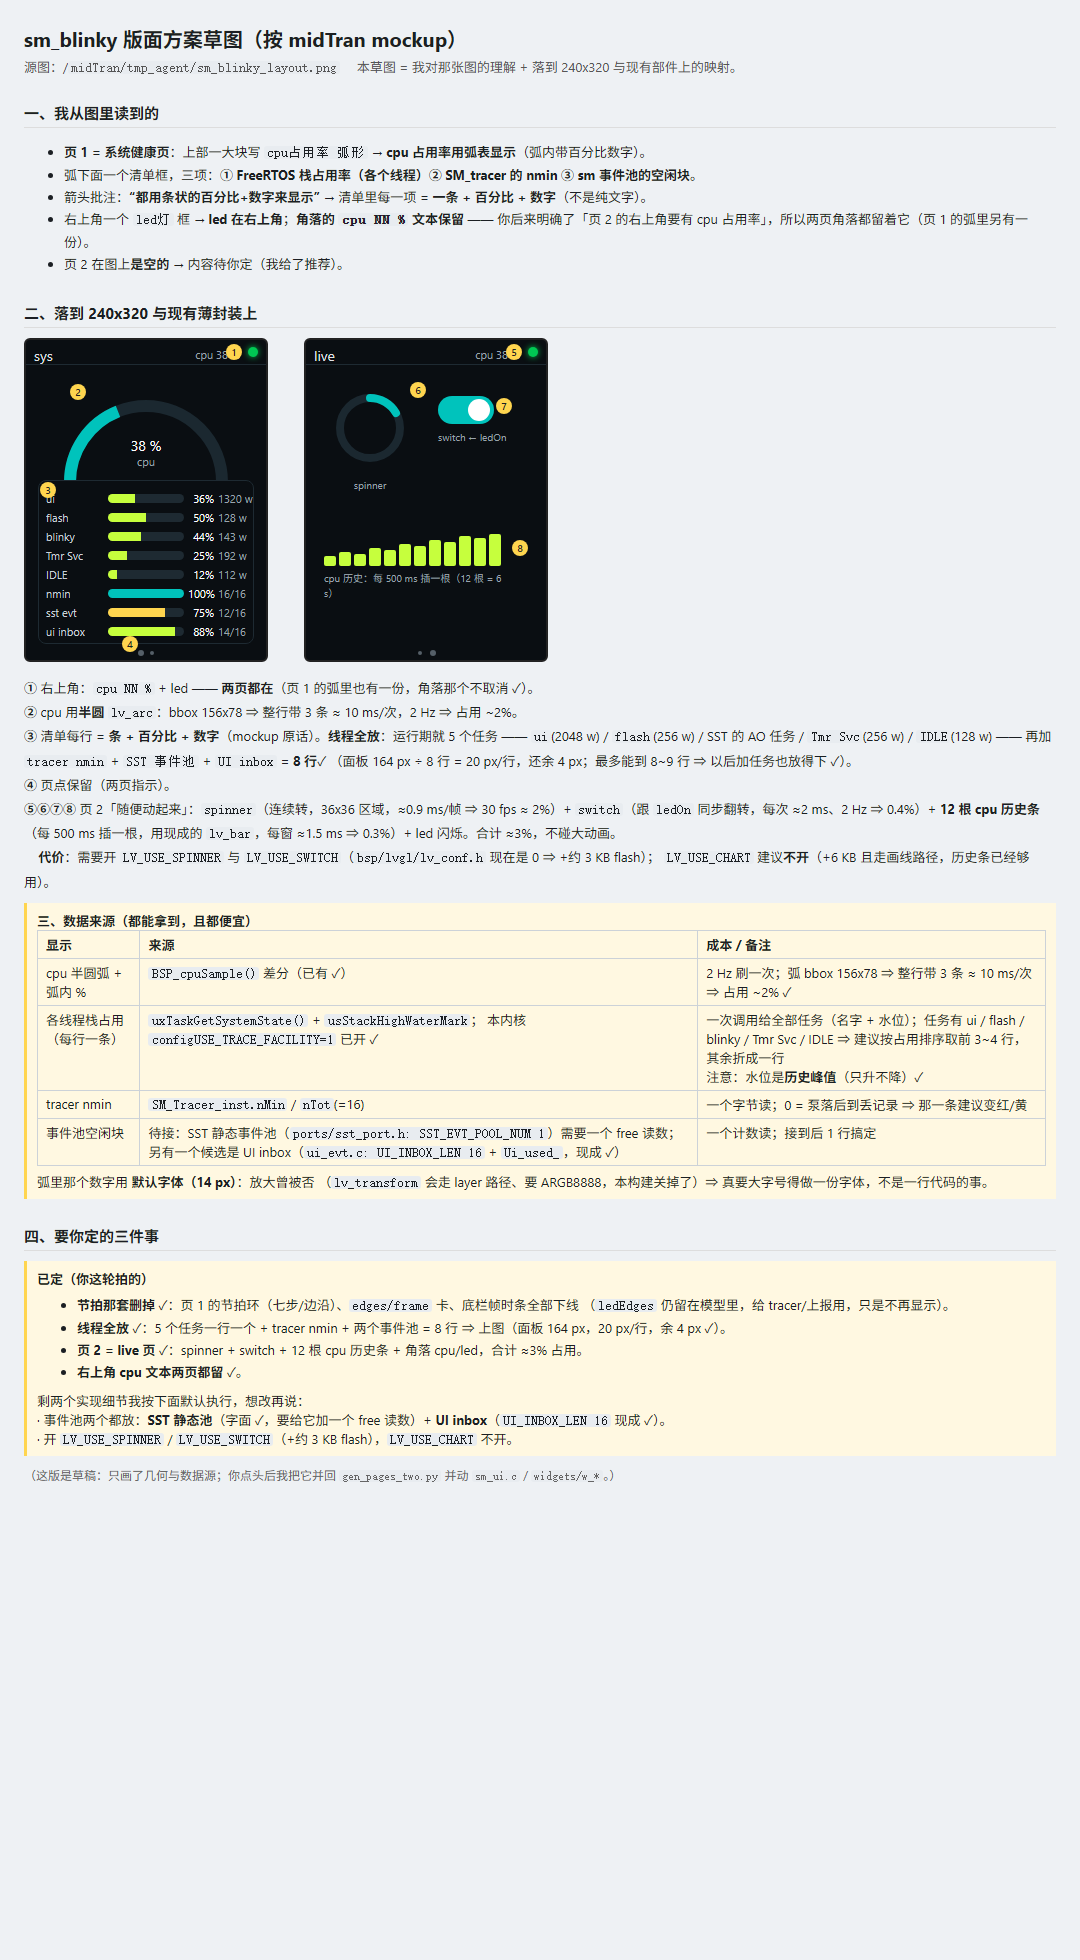
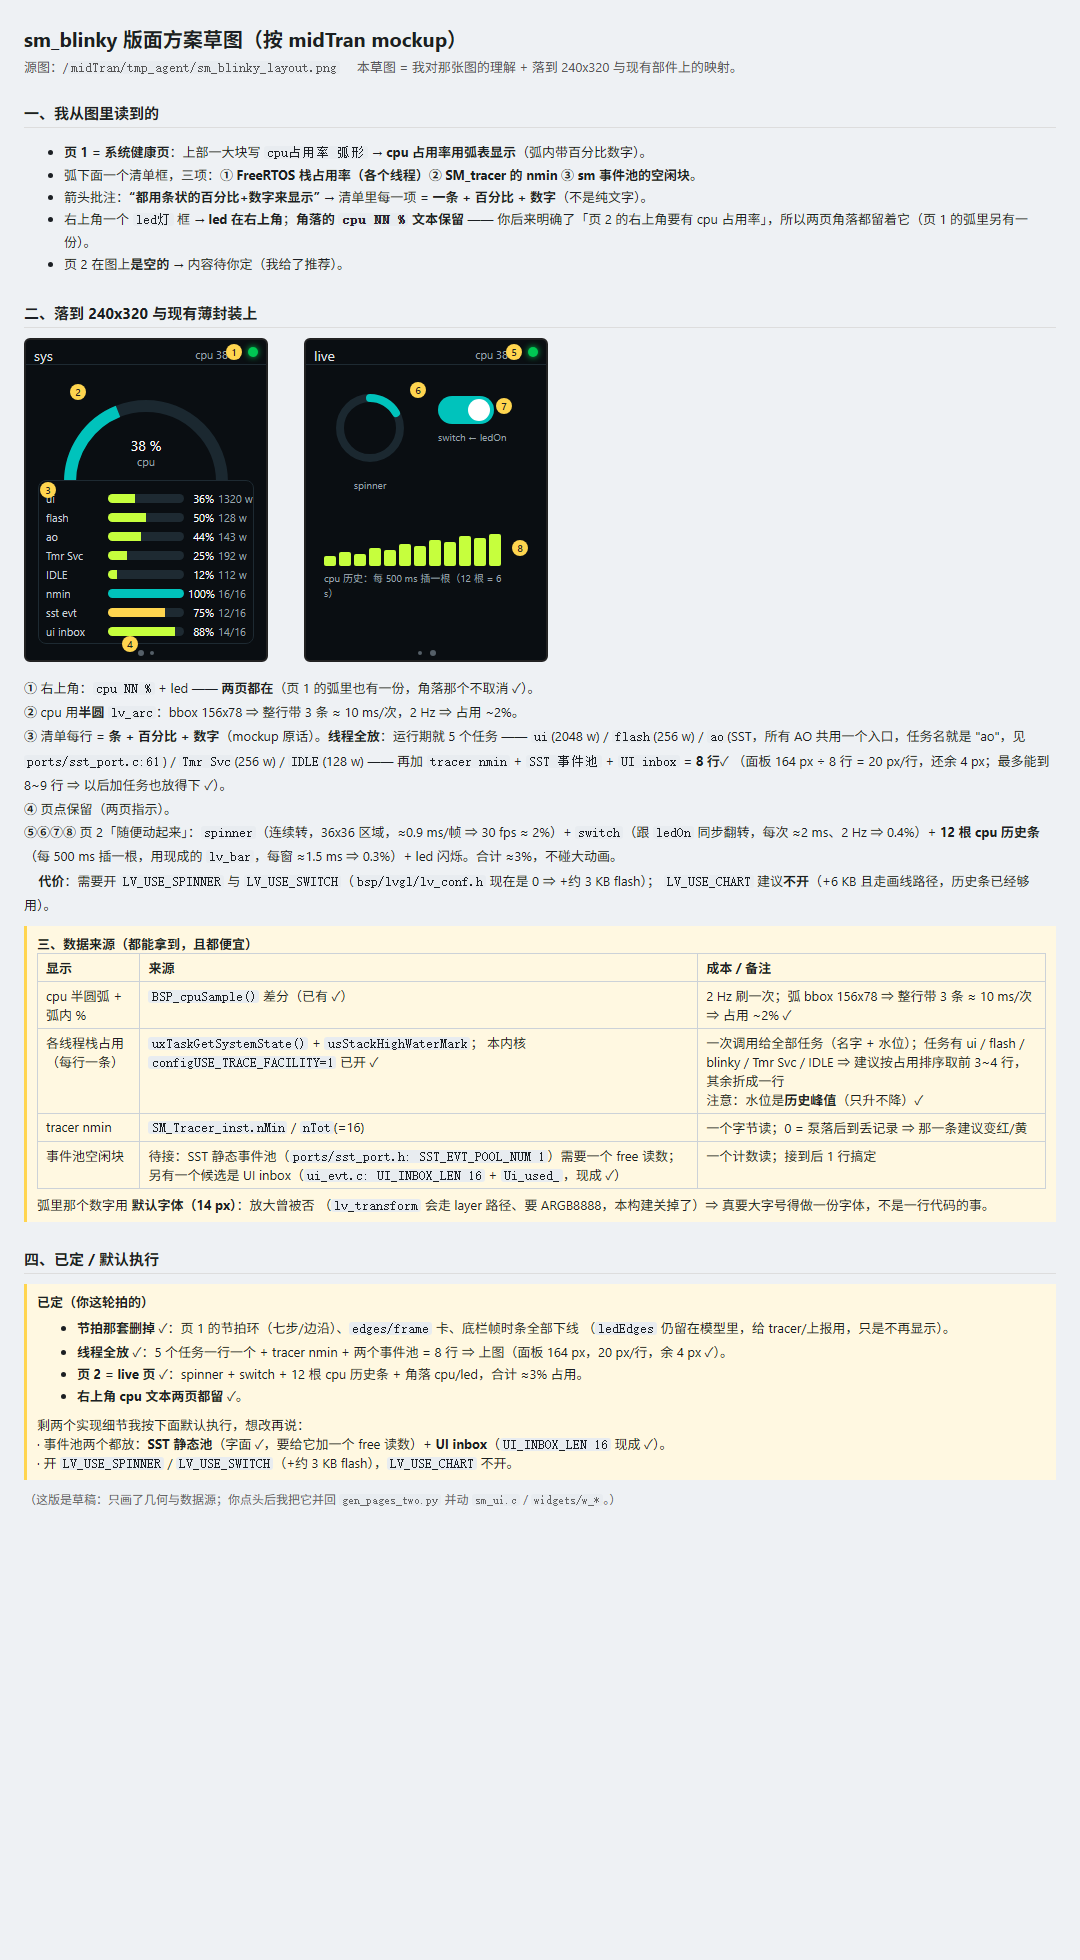
Name the AO task by the name it really has, and close the open questions in the sketch

Changed region(s): [[0.0, 0.3735, 0.9778, 0.7781], [0.55, 0.7158, 0.6111, 0.7469]]

diff --git a/docs/diagrams/sketches/layout-next.html b/docs/diagrams/sketches/layout-next.html
@@ -48,12 +48,12 @@ code{background:#e8ecf0;padding:0 3px;border-radius:3px}
 </ul>
 
 <h2>二、落到 240x320 与现有薄封装上</h2>
-<div class="panels"><div class="panel"><div class="cap">page 1 &middot; 系统健康（新）</div><div style="position:absolute;left:0;top:0;width:240px;height:24px;border-bottom:1px solid #1E2A32"></div><div style="position:absolute;left:8px;top:6px;color:#E0E4E8;font-size:14px">sys</div><div class="led" style="left:222px;top:7px"></div><div style="position:absolute;left:0;top:7px;width:214px;text-align:right;color:#9AA3AC;font-size:11px">cpu 38 %</div><div class="tagon" style="left:200px;top:4px">1</div><svg width="240" height="130" viewBox="0 0 240 130" style="position:absolute;left:0;top:26px"><path d="M 44.0 116.0 A 76 76 0 0 1 196.0 116.0" stroke="#1B2830" stroke-width="12" fill="none"/><path d="M 44.0 116.0 A 76 76 0 0 1 92.0 45.3" stroke="#00C3BC" stroke-width="12" fill="none"/></svg><div style="position:absolute;left:0;top:96px;width:240px;text-align:center;color:#fff;font-size:14px">38 %</div><div style="position:absolute;left:0;top:114px;width:240px;text-align:center;color:#9AA3AC;font-size:11px">cpu</div><div class="tagon" style="left:44px;top:44px">2</div><div class="solid" style="left:12px;top:140px;width:216px;height:164px"></div><div class="row" style="left:20px;top:150px"><span style="width:58px">ui</span><span class="track" style="width:76px"><span class="fill" style="width:36%;background:#C6FF3D"></span></span><span class="pct">36%</span><span class="raw">1320 w</span></div><div class="row" style="left:20px;top:169px"><span style="width:58px">flash</span><span class="track" style="width:76px"><span class="fill" style="width:50%;background:#C6FF3D"></span></span><span class="pct">50%</span><span class="raw">128 w</span></div><div class="row" style="left:20px;top:188px"><span style="width:58px">blinky</span><span class="track" style="width:76px"><span class="fill" style="width:44%;background:#C6FF3D"></span></span><span class="pct">44%</span><span class="raw">143 w</span></div><div class="row" style="left:20px;top:207px"><span style="width:58px">Tmr Svc</span><span class="track" style="width:76px"><span class="fill" style="width:25%;background:#C6FF3D"></span></span><span class="pct">25%</span><span class="raw">192 w</span></div><div class="row" style="left:20px;top:226px"><span style="width:58px">IDLE</span><span class="track" style="width:76px"><span class="fill" style="width:12%;background:#C6FF3D"></span></span><span class="pct">12%</span><span class="raw">112 w</span></div><div class="row" style="left:20px;top:245px"><span style="width:58px">nmin</span><span class="track" style="width:76px"><span class="fill" style="width:100%;background:#00C3BC"></span></span><span class="pct">100%</span><span class="raw">16/16</span></div><div class="row" style="left:20px;top:264px"><span style="width:58px">sst evt</span><span class="track" style="width:76px"><span class="fill" style="width:75%;background:#FFD54F"></span></span><span class="pct">75%</span><span class="raw">12/16</span></div><div class="row" style="left:20px;top:283px"><span style="width:58px">ui inbox</span><span class="track" style="width:76px"><span class="fill" style="width:88%;background:#C6FF3D"></span></span><span class="pct">88%</span><span class="raw">14/16</span></div><div class="tagon" style="left:14px;top:142px">3</div><div class="dot" style="left:112px;top:310px;width:6px;height:6px"></div><div class="dot" style="left:124px;top:311px;width:4px;height:4px"></div><div class="tagon" style="left:96px;top:296px">4</div></div><div class="panel"><div class="cap">page 2 &middot; live（原图为空，内容我提案）</div><div style="position:absolute;left:0;top:0;width:240px;height:24px;border-bottom:1px solid #1E2A32"></div><div style="position:absolute;left:8px;top:6px;color:#E0E4E8;font-size:14px">live</div><div class="led" style="left:222px;top:7px"></div><div style="position:absolute;left:0;top:7px;width:214px;text-align:right;color:#9AA3AC;font-size:11px">cpu 38 %</div><div class="tagon" style="left:200px;top:4px">5</div><svg width="96" height="96" viewBox="0 0 96 96" style="position:absolute;left:16px;top:40px"><circle cx="48" cy="48" r="30" stroke="#1B2830" stroke-width="8" fill="none"/><path d="M 48 18 A 30 30 0 0 1 74 33" stroke="#00C3BC" stroke-width="8" fill="none" stroke-linecap="round"/></svg><div style="position:absolute;left:16px;top:138px;width:96px;text-align:center;color:#9AA3AC;font-size:10px">spinner</div><div class="tagon" style="left:104px;top:42px">6</div><div style="position:absolute;left:132px;top:56px;width:56px;height:28px;border-radius:14px;background:#00C3BC"></div><div style="position:absolute;left:162px;top:59px;width:22px;height:22px;border-radius:50%;background:#fff"></div><div style="position:absolute;left:132px;top:90px;width:88px;color:#9AA3AC;font-size:10px">switch &larr; ledOn</div><div class="tagon" style="left:190px;top:58px">7</div><div style="position:absolute;left:18px;top:216px;width:12px;height:10px;background:#C6FF3D;border-radius:2px"></div><div style="position:absolute;left:33px;top:212px;width:12px;height:14px;background:#C6FF3D;border-radius:2px"></div><div style="position:absolute;left:48px;top:214px;width:12px;height:12px;background:#C6FF3D;border-radius:2px"></div><div style="position:absolute;left:63px;top:208px;width:12px;height:18px;background:#C6FF3D;border-radius:2px"></div><div style="position:absolute;left:78px;top:210px;width:12px;height:16px;background:#C6FF3D;border-radius:2px"></div><div style="position:absolute;left:93px;top:204px;width:12px;height:22px;background:#C6FF3D;border-radius:2px"></div><div style="position:absolute;left:108px;top:206px;width:12px;height:20px;background:#C6FF3D;border-radius:2px"></div><div style="position:absolute;left:123px;top:200px;width:12px;height:26px;background:#C6FF3D;border-radius:2px"></div><div style="position:absolute;left:138px;top:202px;width:12px;height:24px;background:#C6FF3D;border-radius:2px"></div><div style="position:absolute;left:153px;top:196px;width:12px;height:30px;background:#C6FF3D;border-radius:2px"></div><div style="position:absolute;left:168px;top:198px;width:12px;height:28px;background:#C6FF3D;border-radius:2px"></div><div style="position:absolute;left:183px;top:194px;width:12px;height:32px;background:#C6FF3D;border-radius:2px"></div><div style="position:absolute;left:18px;top:230px;width:186px;color:#9AA3AC;font-size:10px">cpu 历史：每 500 ms 插一根（12 根 = 6 s）</div><div class="tagon" style="left:206px;top:200px">8</div><div class="dot" style="left:112px;top:311px;width:4px;height:4px"></div><div class="dot" style="left:124px;top:310px;width:6px;height:6px"></div></div></div>
+<div class="panels"><div class="panel"><div class="cap">page 1 &middot; 系统健康（新）</div><div style="position:absolute;left:0;top:0;width:240px;height:24px;border-bottom:1px solid #1E2A32"></div><div style="position:absolute;left:8px;top:6px;color:#E0E4E8;font-size:14px">sys</div><div class="led" style="left:222px;top:7px"></div><div style="position:absolute;left:0;top:7px;width:214px;text-align:right;color:#9AA3AC;font-size:11px">cpu 38 %</div><div class="tagon" style="left:200px;top:4px">1</div><svg width="240" height="130" viewBox="0 0 240 130" style="position:absolute;left:0;top:26px"><path d="M 44.0 116.0 A 76 76 0 0 1 196.0 116.0" stroke="#1B2830" stroke-width="12" fill="none"/><path d="M 44.0 116.0 A 76 76 0 0 1 92.0 45.3" stroke="#00C3BC" stroke-width="12" fill="none"/></svg><div style="position:absolute;left:0;top:96px;width:240px;text-align:center;color:#fff;font-size:14px">38 %</div><div style="position:absolute;left:0;top:114px;width:240px;text-align:center;color:#9AA3AC;font-size:11px">cpu</div><div class="tagon" style="left:44px;top:44px">2</div><div class="solid" style="left:12px;top:140px;width:216px;height:164px"></div><div class="row" style="left:20px;top:150px"><span style="width:58px">ui</span><span class="track" style="width:76px"><span class="fill" style="width:36%;background:#C6FF3D"></span></span><span class="pct">36%</span><span class="raw">1320 w</span></div><div class="row" style="left:20px;top:169px"><span style="width:58px">flash</span><span class="track" style="width:76px"><span class="fill" style="width:50%;background:#C6FF3D"></span></span><span class="pct">50%</span><span class="raw">128 w</span></div><div class="row" style="left:20px;top:188px"><span style="width:58px">ao</span><span class="track" style="width:76px"><span class="fill" style="width:44%;background:#C6FF3D"></span></span><span class="pct">44%</span><span class="raw">143 w</span></div><div class="row" style="left:20px;top:207px"><span style="width:58px">Tmr Svc</span><span class="track" style="width:76px"><span class="fill" style="width:25%;background:#C6FF3D"></span></span><span class="pct">25%</span><span class="raw">192 w</span></div><div class="row" style="left:20px;top:226px"><span style="width:58px">IDLE</span><span class="track" style="width:76px"><span class="fill" style="width:12%;background:#C6FF3D"></span></span><span class="pct">12%</span><span class="raw">112 w</span></div><div class="row" style="left:20px;top:245px"><span style="width:58px">nmin</span><span class="track" style="width:76px"><span class="fill" style="width:100%;background:#00C3BC"></span></span><span class="pct">100%</span><span class="raw">16/16</span></div><div class="row" style="left:20px;top:264px"><span style="width:58px">sst evt</span><span class="track" style="width:76px"><span class="fill" style="width:75%;background:#FFD54F"></span></span><span class="pct">75%</span><span class="raw">12/16</span></div><div class="row" style="left:20px;top:283px"><span style="width:58px">ui inbox</span><span class="track" style="width:76px"><span class="fill" style="width:88%;background:#C6FF3D"></span></span><span class="pct">88%</span><span class="raw">14/16</span></div><div class="tagon" style="left:14px;top:142px">3</div><div class="dot" style="left:112px;top:310px;width:6px;height:6px"></div><div class="dot" style="left:124px;top:311px;width:4px;height:4px"></div><div class="tagon" style="left:96px;top:296px">4</div></div><div class="panel"><div class="cap">page 2 &middot; live（原图为空，内容我提案）</div><div style="position:absolute;left:0;top:0;width:240px;height:24px;border-bottom:1px solid #1E2A32"></div><div style="position:absolute;left:8px;top:6px;color:#E0E4E8;font-size:14px">live</div><div class="led" style="left:222px;top:7px"></div><div style="position:absolute;left:0;top:7px;width:214px;text-align:right;color:#9AA3AC;font-size:11px">cpu 38 %</div><div class="tagon" style="left:200px;top:4px">5</div><svg width="96" height="96" viewBox="0 0 96 96" style="position:absolute;left:16px;top:40px"><circle cx="48" cy="48" r="30" stroke="#1B2830" stroke-width="8" fill="none"/><path d="M 48 18 A 30 30 0 0 1 74 33" stroke="#00C3BC" stroke-width="8" fill="none" stroke-linecap="round"/></svg><div style="position:absolute;left:16px;top:138px;width:96px;text-align:center;color:#9AA3AC;font-size:10px">spinner</div><div class="tagon" style="left:104px;top:42px">6</div><div style="position:absolute;left:132px;top:56px;width:56px;height:28px;border-radius:14px;background:#00C3BC"></div><div style="position:absolute;left:162px;top:59px;width:22px;height:22px;border-radius:50%;background:#fff"></div><div style="position:absolute;left:132px;top:90px;width:88px;color:#9AA3AC;font-size:10px">switch &larr; ledOn</div><div class="tagon" style="left:190px;top:58px">7</div><div style="position:absolute;left:18px;top:216px;width:12px;height:10px;background:#C6FF3D;border-radius:2px"></div><div style="position:absolute;left:33px;top:212px;width:12px;height:14px;background:#C6FF3D;border-radius:2px"></div><div style="position:absolute;left:48px;top:214px;width:12px;height:12px;background:#C6FF3D;border-radius:2px"></div><div style="position:absolute;left:63px;top:208px;width:12px;height:18px;background:#C6FF3D;border-radius:2px"></div><div style="position:absolute;left:78px;top:210px;width:12px;height:16px;background:#C6FF3D;border-radius:2px"></div><div style="position:absolute;left:93px;top:204px;width:12px;height:22px;background:#C6FF3D;border-radius:2px"></div><div style="position:absolute;left:108px;top:206px;width:12px;height:20px;background:#C6FF3D;border-radius:2px"></div><div style="position:absolute;left:123px;top:200px;width:12px;height:26px;background:#C6FF3D;border-radius:2px"></div><div style="position:absolute;left:138px;top:202px;width:12px;height:24px;background:#C6FF3D;border-radius:2px"></div><div style="position:absolute;left:153px;top:196px;width:12px;height:30px;background:#C6FF3D;border-radius:2px"></div><div style="position:absolute;left:168px;top:198px;width:12px;height:28px;background:#C6FF3D;border-radius:2px"></div><div style="position:absolute;left:183px;top:194px;width:12px;height:32px;background:#C6FF3D;border-radius:2px"></div><div style="position:absolute;left:18px;top:230px;width:186px;color:#9AA3AC;font-size:10px">cpu 历史：每 500 ms 插一根（12 根 = 6 s）</div><div class="tagon" style="left:206px;top:200px">8</div><div class="dot" style="left:112px;top:311px;width:4px;height:4px"></div><div class="dot" style="left:124px;top:310px;width:6px;height:6px"></div></div></div>
 <div style="font-size:13px;line-height:1.8;margin-top:14px">
 <b>①</b> 右上角：<code>cpu NN %</code> + led —— <b>两页都在</b>（页 1 的弧里也有一份，角落那个不取消 ✓）。<br>
 <b>②</b> cpu 用<b>半圆</b> <code>lv_arc</code>：bbox 156x78 &rArr; 整行带 3 条 &asymp; 10 ms/次，2 Hz &rArr; 占用 ~2%。<br>
 <b>③</b> 清单每行 = <b>条 + 百分比 + 数字</b>（mockup 原话）。<b>线程全放</b>：运行期就 5 个任务
- —— <code>ui</code>(2048 w) / <code>flash</code>(256 w) / SST 的 AO 任务 / <code>Tmr Svc</code>(256 w) / <code>IDLE</code>(128 w)
+ —— <code>ui</code>(2048 w) / <code>flash</code>(256 w) / <code>ao</code>(SST，所有 AO 共用一个入口，任务名就是 "ao"，见 <code>ports/sst_port.c:61</code>) / <code>Tmr Svc</code>(256 w) / <code>IDLE</code>(128 w)
  —— 再加 <code>tracer nmin</code> + <code>SST 事件池</code> + <code>UI inbox</code> = <b>8 行</b>✓
  （面板 164 px &divide; 8 行 = 20 px/行，还余 4 px；最多能到 8~9 行 ⇒ 以后加任务也放得下 ✓）。<br>
 <b>④</b> 页点保留（两页指示）。<br>
@@ -87,7 +87,7 @@ code{background:#e8ecf0;padding:0 3px;border-radius:3px}
 真要大字号得做一份字体，不是一行代码的事。</div>
 </div>
 
-<h2>四、要你定的三件事</h2>
+<h2>四、已定 / 默认执行</h2>
 <div class="note"><b>已定（你这轮拍的）</b>
 <ul style="font-size:13px;line-height:1.7;margin:6px 0 0 0">
 <li><b>节拍那套删掉</b> ✓：页 1 的节拍环（七步/边沿）、<code>edges/frame</code> 卡、底栏帧时条全部下线

diff --git a/docs/diagrams/sketches/gen_layout_next.py b/docs/diagrams/sketches/gen_layout_next.py
@@ -103,7 +103,7 @@ def page1():
              '</div>')
     o.append(row(150, "ui", 36, "1320 w"))
     o.append(row(169, "flash", 50, "128 w"))
-    o.append(row(188, "blinky", 44, "143 w"))
+    o.append(row(188, "ao", 44, "143 w"))
     o.append(row(207, "Tmr Svc", 25, "192 w"))
     o.append(row(226, "IDLE", 12, "112 w"))
     o.append(row(245, "nmin", 100, "16/16", fill_hex="#00C3BC"))
@@ -183,7 +183,7 @@ HTML = """<!DOCTYPE html>
 <b>①</b> 右上角：<code>cpu NN %</code> + led —— <b>两页都在</b>（页 1 的弧里也有一份，角落那个不取消 ✓）。<br>
 <b>②</b> cpu 用<b>半圆</b> <code>lv_arc</code>：bbox 156x78 &rArr; 整行带 3 条 &asymp; 10 ms/次，2 Hz &rArr; 占用 ~2%。<br>
 <b>③</b> 清单每行 = <b>条 + 百分比 + 数字</b>（mockup 原话）。<b>线程全放</b>：运行期就 5 个任务
- —— <code>ui</code>(2048 w) / <code>flash</code>(256 w) / SST 的 AO 任务 / <code>Tmr Svc</code>(256 w) / <code>IDLE</code>(128 w)
+ —— <code>ui</code>(2048 w) / <code>flash</code>(256 w) / <code>ao</code>(SST，所有 AO 共用一个入口，任务名就是 "ao"，见 <code>ports/sst_port.c:61</code>) / <code>Tmr Svc</code>(256 w) / <code>IDLE</code>(128 w)
  —— 再加 <code>tracer nmin</code> + <code>SST 事件池</code> + <code>UI inbox</code> = <b>8 行</b>✓
  （面板 164 px &divide; 8 行 = 20 px/行，还余 4 px；最多能到 8~9 行 ⇒ 以后加任务也放得下 ✓）。<br>
 <b>④</b> 页点保留（两页指示）。<br>
@@ -217,7 +217,7 @@ HTML = """<!DOCTYPE html>
 真要大字号得做一份字体，不是一行代码的事。</div>
 </div>
 
-<h2>四、要你定的三件事</h2>
+<h2>四、已定 / 默认执行</h2>
 <div class="note"><b>已定（你这轮拍的）</b>
 <ul style="font-size:13px;line-height:1.7;margin:6px 0 0 0">
 <li><b>节拍那套删掉</b> ✓：页 1 的节拍环（七步/边沿）、<code>edges/frame</code> 卡、底栏帧时条全部下线
